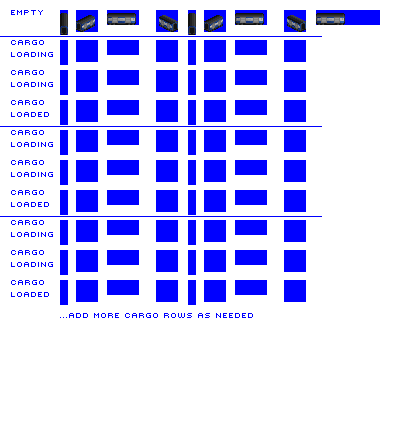
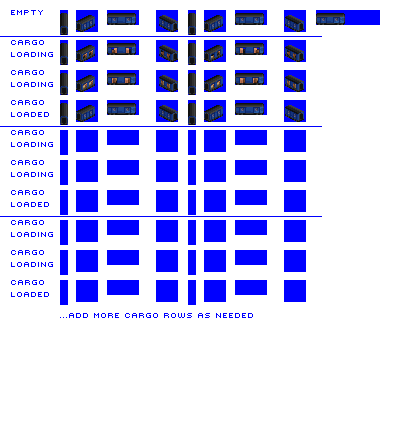
Feature: loading graphics for gen 1 and gen 2 mail cars (closes #6643) (closes #6619)

diff --git a/src/vehicles/mail_cars.py b/src/vehicles/mail_cars.py
@@ -3,10 +3,14 @@ from train import TypeConfig, WagonConsist, MailCar
 
 #self.capacities_freight = [int(0.5 * capacity) for capacity in self.capacities_mail]
 
+cargo_graphics_mappings = {} # template needs this, but mail car has zero cargo-specific graphics, all generic
+
 type_config = TypeConfig(base_id = 'mail_car',
-                template = 'train.pynml',
+                template = 'car_with_visible_cargo.pynml',
+                num_cargo_rows = 1, # template needs this, but mail car has zero cargo-specific graphics, all generic
                 class_refit_groups = ['mail', 'express_freight'],
-                label_refits_allowed = [],
+                cargo_graphics_mappings = cargo_graphics_mappings,
+                label_refits_allowed = cargo_graphics_mappings.keys() ,
                 label_refits_disallowed = [],
                 autorefit = True,
                 default_cargo = 'MAIL',
